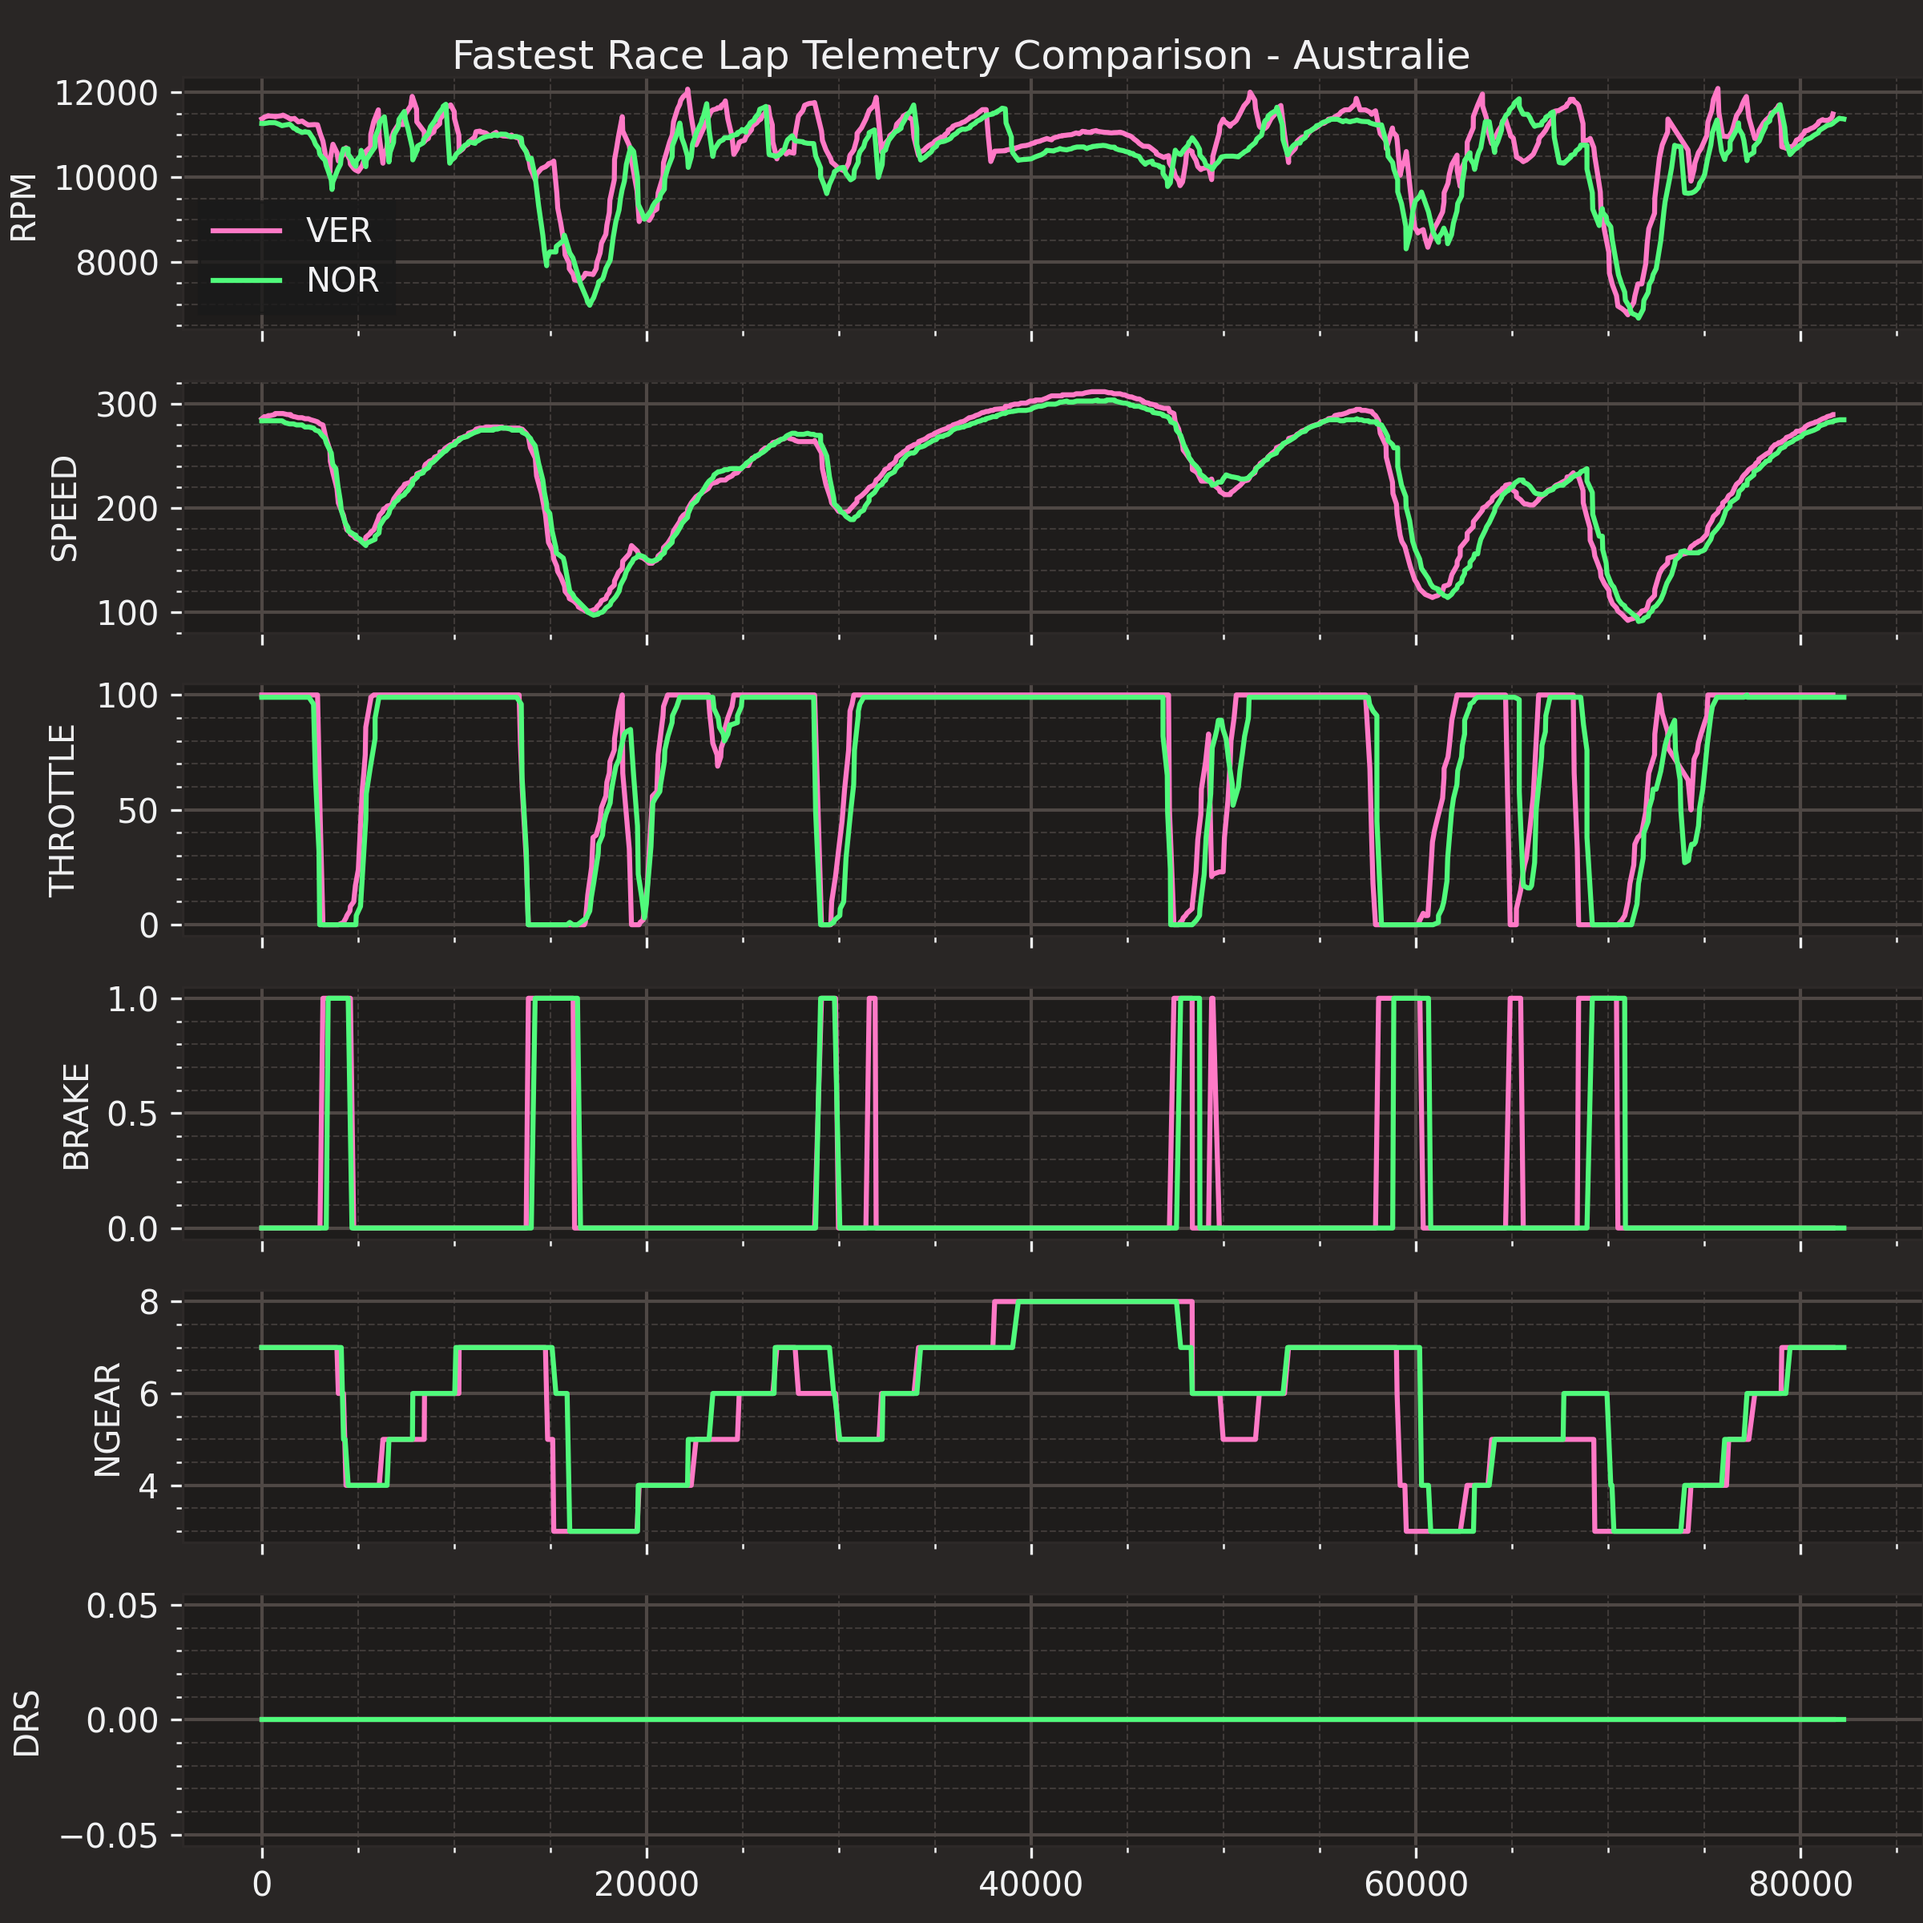
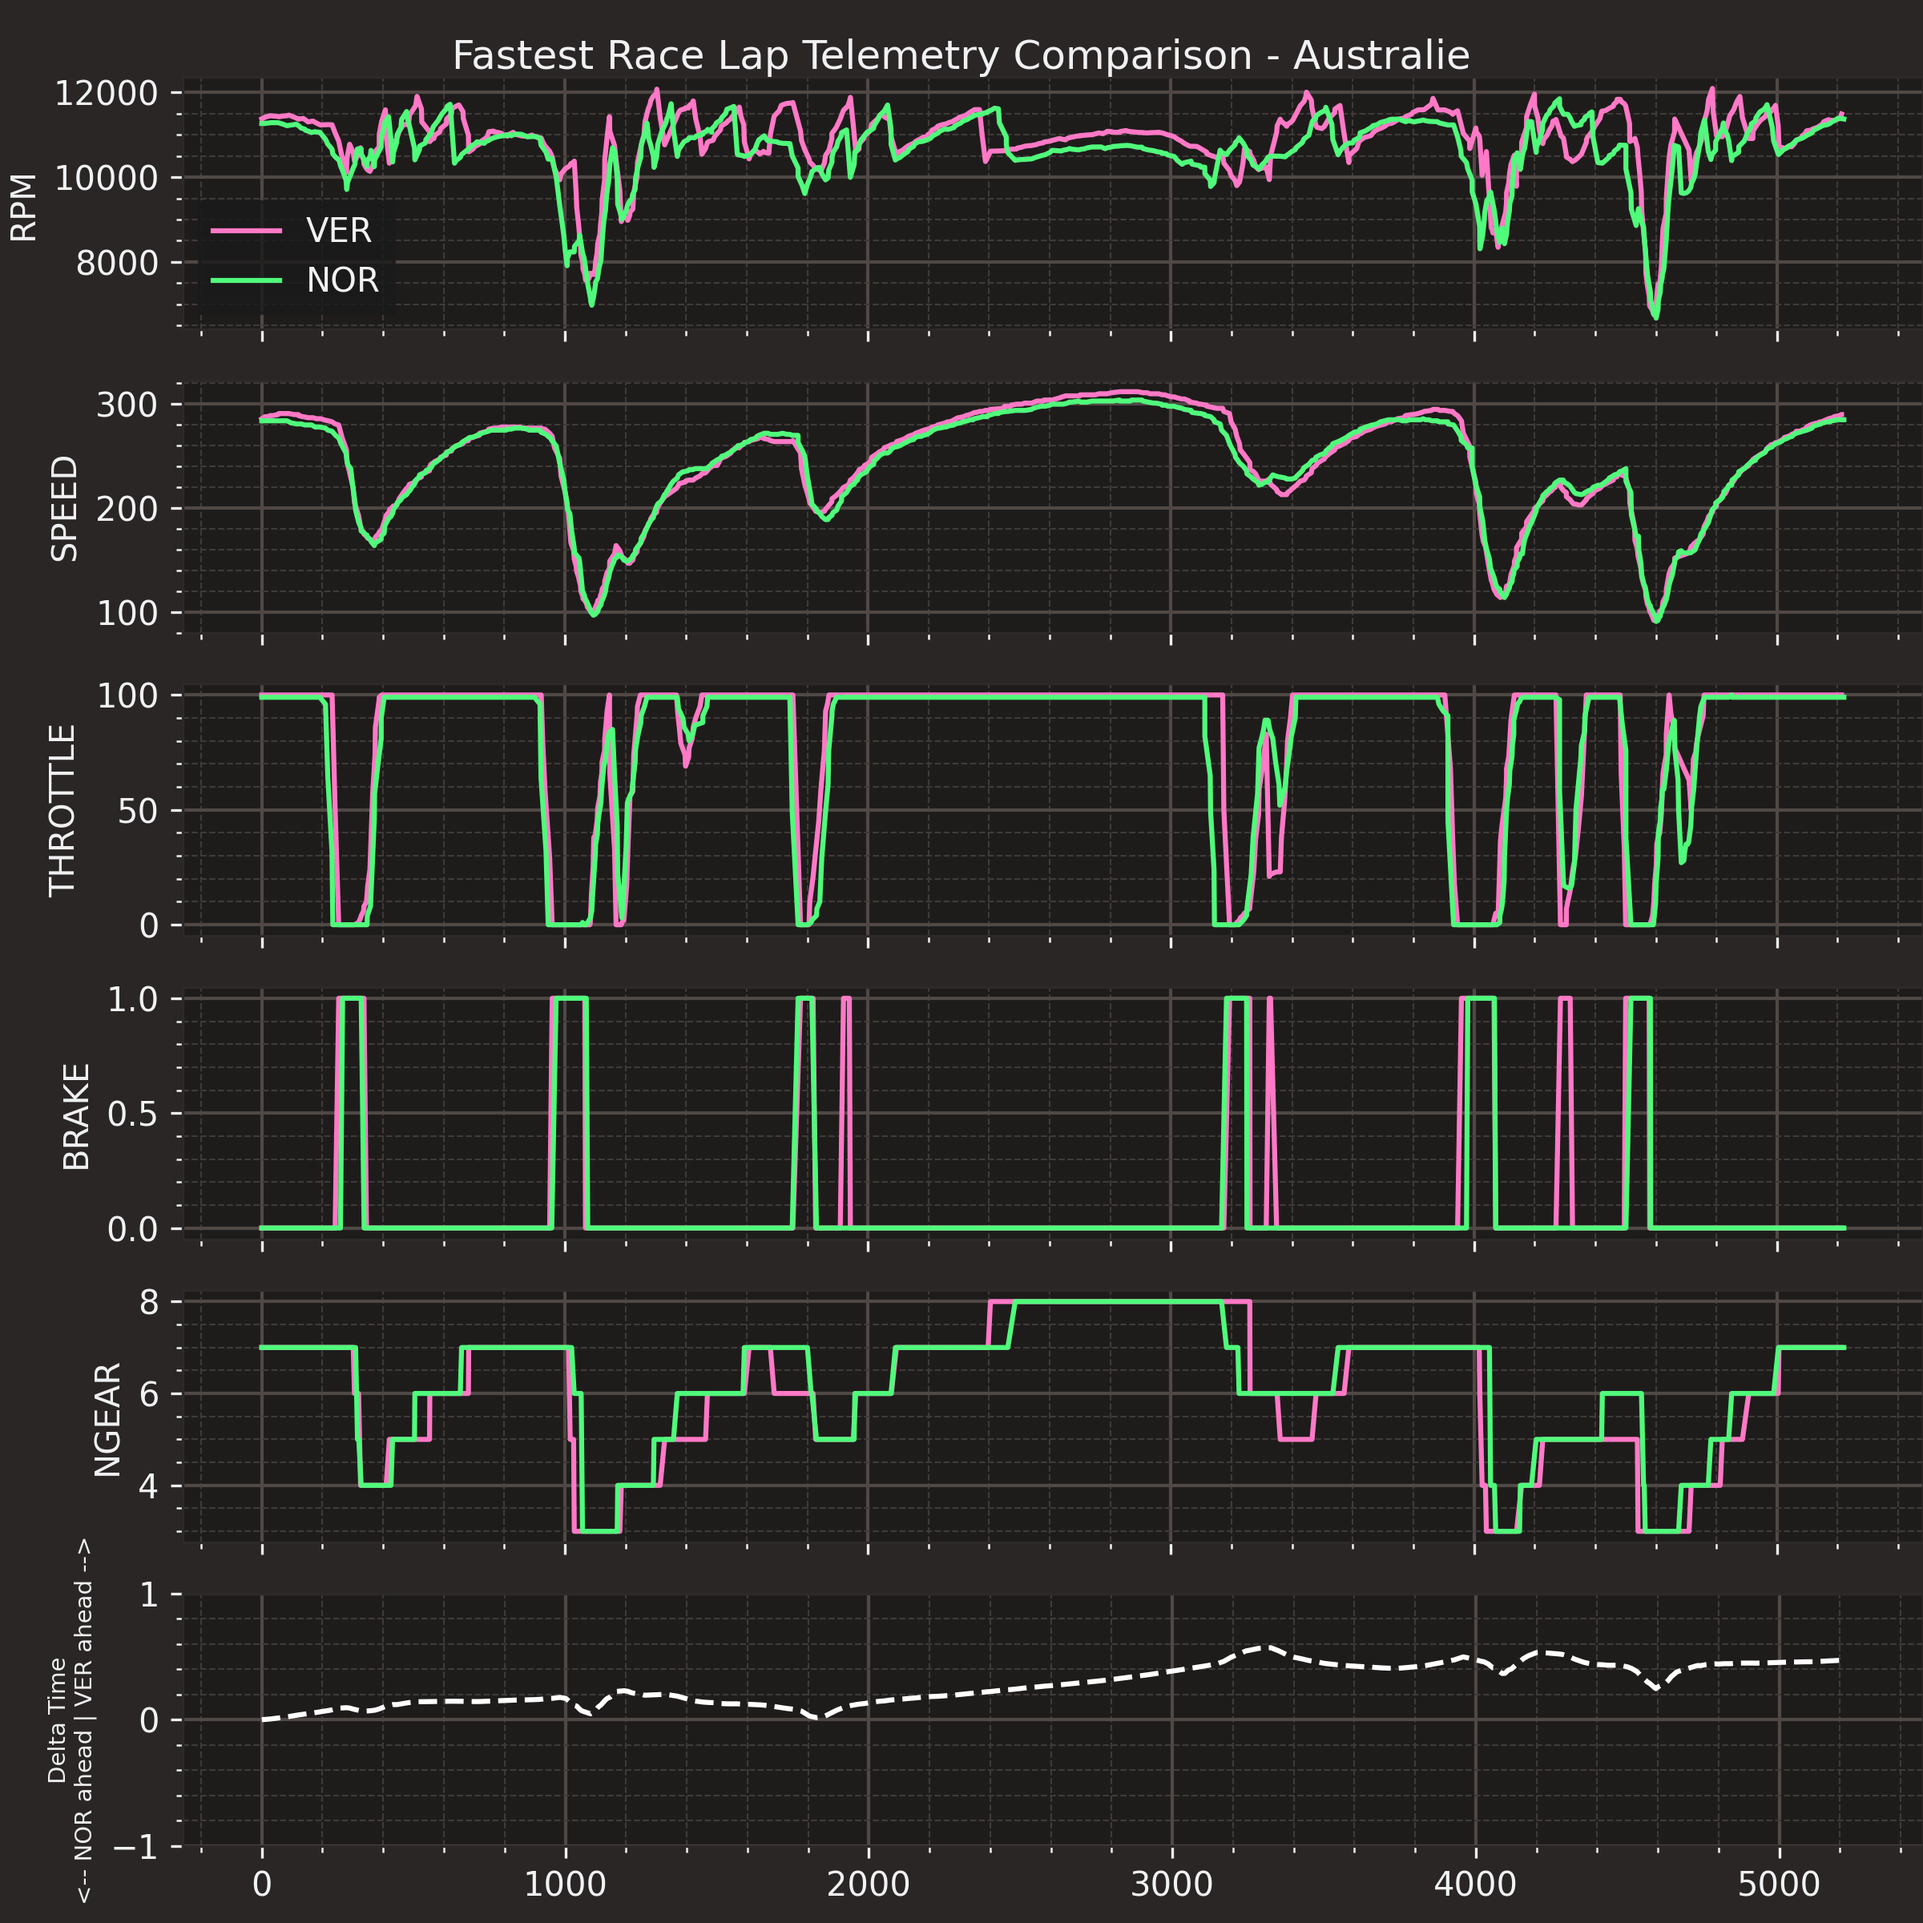
Fin de la partie responsive de la simulation GP : gestion du graphe et du paragraphe lié au graphe

diff --git a/js/Grands-Prix/simulationGP.js b/js/Grands-Prix/simulationGP.js
@@ -10,11 +10,8 @@ var yScale = d3.scaleLinear().domain([-25000, 25000]).range([0, 1600]);
 
 //Class driver
 class Driver {
-  constructor(firstName, lastName, threeLetterName, team) {
-    this.firstName = firstName;
+  constructor(lastName) {
     this.lastName = lastName;
-    this.threeLetterName = threeLetterName;
-    this.team = team;
 
     this.telemetry = {
       speed: 0, // value in the [0-360] range, measured in km/h
@@ -151,6 +148,11 @@ export function gestionFormulaireGP() {
     if (document.querySelector(".simulation") != null) {
       document.querySelector(".simulation").remove();
     }
+    if (
+      document.querySelector(".div-graphe-telemetries-et-explication") != null
+    ) {
+      document.querySelector(".div-graphe-telemetries-et-explication").remove();
+    }
     recupererInfosSimulationGP(driver1, driver2, gp).then(
       (tabInfosSimulationGP) => {
         //Mettre à l'échelle les coordonnées des pilotes et réupérer les max et min de chaque axe pour la taile du canva
@@ -198,11 +200,10 @@ export function gestionFormulaireGP() {
           tabInfosSimulationGP[1]["coordY"][i] -= yMin;
         }
 
-        let Driver1 = new Driver("Max", "Verstappen", "VER", "RedBull");
-        let Driver2 = new Driver("Lando", "Norris", "NOR", "McLaren");
+        let Driver1 = new Driver(driver1);
+        let Driver2 = new Driver(driver2);
 
         afficherSimulationGP(xMin, yMin, xMax, yMax);
-
         //move window to #canvas
         document
           .querySelector(".circuit-container")
@@ -210,6 +211,8 @@ export function gestionFormulaireGP() {
 
         animateRace(tabInfosSimulationGP[0], "car1", "compteur1", Driver1);
         animateRace(tabInfosSimulationGP[1], "car2", "compteur2", Driver2);
+
+        afficherGrapheTelemetries(driver1, driver2, gp);
       }
     );
     //Attendre que l'animation soit terminée pour en relancer une autre -> temps mis à la zeub
@@ -231,7 +234,6 @@ function updateCompteur(idCompteur, driver) {
   // ajouter le contenu
   const overview = divCompteur.append("div").attr("class", "overview");
   overview.append("h2").text(driver.lastName);
-  overview.append("h3").text(driver.team);
   // following the HTML-centric section, include an SVG to highlight the telemetry
   const margin = {
     top: 20,
@@ -583,4 +585,31 @@ export function afficherIntroductionGP() {
   paragrapheIntroduction.innerText =
     "Pour lancer la simulation, il vous suffit de remplir le formulaire en sélectionnant deux pilotes de F1 ainsi que le circuit sur lequel vous souhaitez les voir concourir. Une fois que vous avez choisi vos options, validez le formulaire en cliquant sur le bouton 'Lancer la simulation'.\n\nUne simulation de course va alors se lancer. Cette simulation permet de recréer les meilleurs tours effectués par les pilotes sélectionnés lors du Grand Prix correspondant à la saison 2022 de Formule 1.\n\nVous pourrez ainsi observer leurs performances en temps réel, avec leurs compteurs de vitesse, RPM, et d'autres informations affichées en direct. Enfin, vous pourrez consulter un graphe comparatif qui affiche les télémétries des deux pilotes. Cela vous permettra de voir les différences de performance entre les deux pilotes et de comprendre comment ils se sont comportés sur le tracé du circuit.\n\nNous espérons que vous apprécierez cette expérience immersive de simulation de courses de Formule 1 et que vous prendrez plaisir à suivre les performances de vos pilotes préférés !\n\nAttention, la simulation peut prendre quelques secondes à se lancer, le temps que les pneus soient à bonne température.";
   divIntroduction.appendChild(paragrapheIntroduction);
+}
+
+// ------------------------------------Gestion du graphe de comparaison des télémétries----------------
+export function afficherGrapheTelemetries(driver1, driver2, circuit) {
+  const sectionStats = document.querySelector("#stats");
+  const divGrapheTelemetriesEtExplication = document.createElement("div");
+  divGrapheTelemetriesEtExplication.classList.add(
+    "div-graphe-telemetries-et-explication"
+  );
+  sectionStats.appendChild(divGrapheTelemetriesEtExplication);
+
+  const divGrapheTelemetries = document.createElement("div");
+  divGrapheTelemetries.classList.add("div-graphe-telemetries");
+  divGrapheTelemetriesEtExplication.appendChild(divGrapheTelemetries);
+  const graphe = document.createElement("img");
+  graphe.src =
+    "/data/simulationGP/" + driver1 + "_" + driver2 + "_" + circuit + ".png";
+  graphe.classList.add("graphe-telemetries");
+  divGrapheTelemetries.appendChild(graphe);
+
+  const divExplication = document.createElement("div");
+  divExplication.classList.add("presentation");
+  divGrapheTelemetriesEtExplication.appendChild(divExplication);
+  const paragrapheGraphe = document.createElement("p");
+  paragrapheGraphe.innerHTML =
+    "Ce graphique compare les télémétries des deux pilotes sélectionnés.<br/><br/>Les données comprennent le régime moteur (RPM), la vitesse (speed), l'accélérateur (throttle), le freinage (brake), les rapports de vitesse (nGear), et le temps d'écart entre les deux pilotes (Delta time).<br/><br/>Pour interpréter ces données, vous pouvez regarder les différences entre les tracés des deux pilotes pour chaque paramètre de télémétrie.<br/><br/>Par exemple, des différences importantes dans les RPM ou la vitesse peuvent indiquer que l'un des pilotes a une meilleure accélération ou une vitesse de pointe plus élevée. De même, des différences dans la position de l'accélérateur ou la position de la pédale de frein peuvent suggérer des styles de conduite différents ou des stratégies de course distinctes. Enfin, le temps d'écart entre les deux pilotes peut être un indicateur important de la performance globale de chaque pilote. Si l'un des pilotes parvient à creuser un écart important par rapport à l'autre, cela peut indiquer une meilleure maîtrise de la voiture ou une stratégie de course plus efficace.<br/><br/>Pour des conseils plus détaillés sur la façon d'analyser les données de télémétrie, nous vous recommandons de consulter le site : <a href=\"https://www.formule1fr.com/news/data-analyse-comment-lire-un-graphique-de-telemetrie-de-formule-1\" target=\"_blank\" style=\"color:#e60012;\">formule1fr.com</a>.";
+  divExplication.appendChild(paragrapheGraphe);
 }

diff --git a/css/simulationGP.css b/css/simulationGP.css
@@ -33,7 +33,7 @@
 
 .intro-formulaire .presentation {
   width: 70%;
-  font-size: 1.2em;
+  font-size: 1em;
 }
 
 .simulation {
@@ -93,7 +93,7 @@ main {
 /* container describing a few information regarding the driver
     display the content in a grid with specific positions for the name, last lap and other relevant information*/
 .overview {
-  margin: 1rem 2rem;
+  margin: 0.8rem 0.8rem;
   display: grid;
   grid-template-columns: 1fr auto;
   grid-template-areas: "lastName lastLap" "team tyre";
@@ -107,6 +107,7 @@ main {
   padding-top: 0;
   text-transform: uppercase;
   letter-spacing: 0.1rem;
+  font-size: 1em;
 }
 
 #stats #compteur1 {
@@ -137,20 +138,6 @@ main {
   align-self: center;
   text-align: right;
 }
-#stats .overview h3 {
-  grid-area: team;
-  padding-left: 0.5rem;
-  font-weight: 300;
-  padding-left: 0.5rem;
-}
-
-#stats #compteur1 .overview h3 {
-  border-left: 4px solid #ff79c6;
-}
-
-#stats #compteur2 .overview h3 {
-  border-left: 4px solid #50fa7b;
-}
 
 /* position the character identifying the tyre type at the very right of the grid */
 .overview strong {
@@ -164,11 +151,35 @@ main {
 
 /* have the svg horizontally centered and occupying a fraction of the available width */
 #stats .simulation svg {
-  width: 80%;
+  width: 100%;
   height: auto;
   align-self: center;
-  margin: 1rem;
   font-family: "Montserrat", sans-serif;
 }
 
 /*------------------------------------- FIN Styles relatifs aux visuels du GP et des compteurs -------------------------------------------*/
+
+/* -----------------------Styles relatifs aux graphes de telemetries---------------------------------- */
+
+.div-graphe-telemetries-et-explication {
+  margin: 5%;
+  display: flex;
+  align-items: center;
+}
+
+.div-graphe-telemetries {
+  width: 60%;
+}
+
+.div-graphe-telemetries img {
+  box-shadow: 0px 0px 30px #fff;
+  width: 100%;
+  border-radius: 1em;
+}
+
+.div-graphe-telemetries-et-explication .presentation {
+  width: 40%;
+  font-size: 1em;
+  padding-top: 0;
+  padding-bottom: 0;
+}

diff --git a/css/media.css b/css/media.css
@@ -1,3 +1,23 @@
+/* ------------------------------------1440px---------------------------------------- */
+
+@media (max-width: 1440px) {
+  #stats .div-graphe-telemetries-et-explication {
+    display: flex;
+    flex-direction: column;
+  }
+
+  #stats .div-graphe-telemetries {
+    width: 100%;
+  }
+
+  #stats .div-graphe-telemetries-et-explication .presentation {
+    width: 100%;
+    font-size: 1em;
+    padding: 0;
+    padding-top: 5%;
+  }
+}
+
 /* -------------------------------------1200px------------------------------------------ */
 
 @media (max-width: 1200px) {

diff --git a/css/homePage.css b/css/homePage.css
@@ -85,14 +85,14 @@ header {
 
 .presentation {
   padding: 5%;
-  font-size: 1.5em;
+  font-size: 1.2em;
   font-weight: 400;
   color: #fff;
   text-align: justify;
 }
 
 .presentation p {
-  padding: 1.5rem;
+  padding: 1.2rem;
   box-shadow: 0px 0px 30px #fff;
   border-radius: 15px;
 }

diff --git a/py/simulationGP.py b/py/simulationGP.py
@@ -4,6 +4,7 @@ import sys
 import os
 from matplotlib import pyplot as plt
 from fastf1 import plotting
+from fastf1 import utils
 
 sysArgv = sys.argv
 namePilote1 = sysArgv[1]
@@ -142,13 +143,23 @@ with open('json/simulationGP/'+namePilote1+'_'+namePilote2+'_'+nameGP+'.json', '
 # Graphe comparatif des télémétries
 
 plotting.setup_mpl()
-data = ['rpm', 'speed', 'throttle', 'brake', 'nGear', 'drs']
-fig, ax = plt.subplots(len(data), figsize=(8, 8))
+
+delta_time, ref_tel, compare_tel = utils.delta_time(fast_pilote1, fast_pilote2)
+# reference is pilote1
+
+data = ['rpm', 'speed', 'throttle', 'brake', 'nGear']
+fig, ax = plt.subplots(len(data) + 1, figsize=(8, 8))
 fig.suptitle("Fastest Race Lap Telemetry Comparison - " + nameGP)
 for i in range(len(data)):
-    ax[i].plot(pilote1['time'], pilote1[data[i]], label=namePilote1)
-    ax[i].plot(pilote2['time'], pilote2[data[i]], label=namePilote2)
+    ax[i].plot(pilote1_car_telemetry["Distance"], pilote1[data[i]], label=namePilote1)
+    ax[i].plot(pilote2_car_telemetry["Distance"], pilote2[data[i]], label=namePilote2)
     ax[i].set(ylabel=data[i].upper())
+    
+ax[len(data)].plot(ref_tel['Distance'], delta_time, "--" ,color='white')
+ax[len(data)].set_ylabel("Delta Time\n<-- " + namePilote2 + " ahead | " + namePilote1 + " ahead -->")
+ax[len(data)].yaxis.label.set_size(7)
+ax[len(data)].set_ylim(-1, 1)
+
 for a in ax.flat:
     a.label_outer()
 ax[0].legend()
